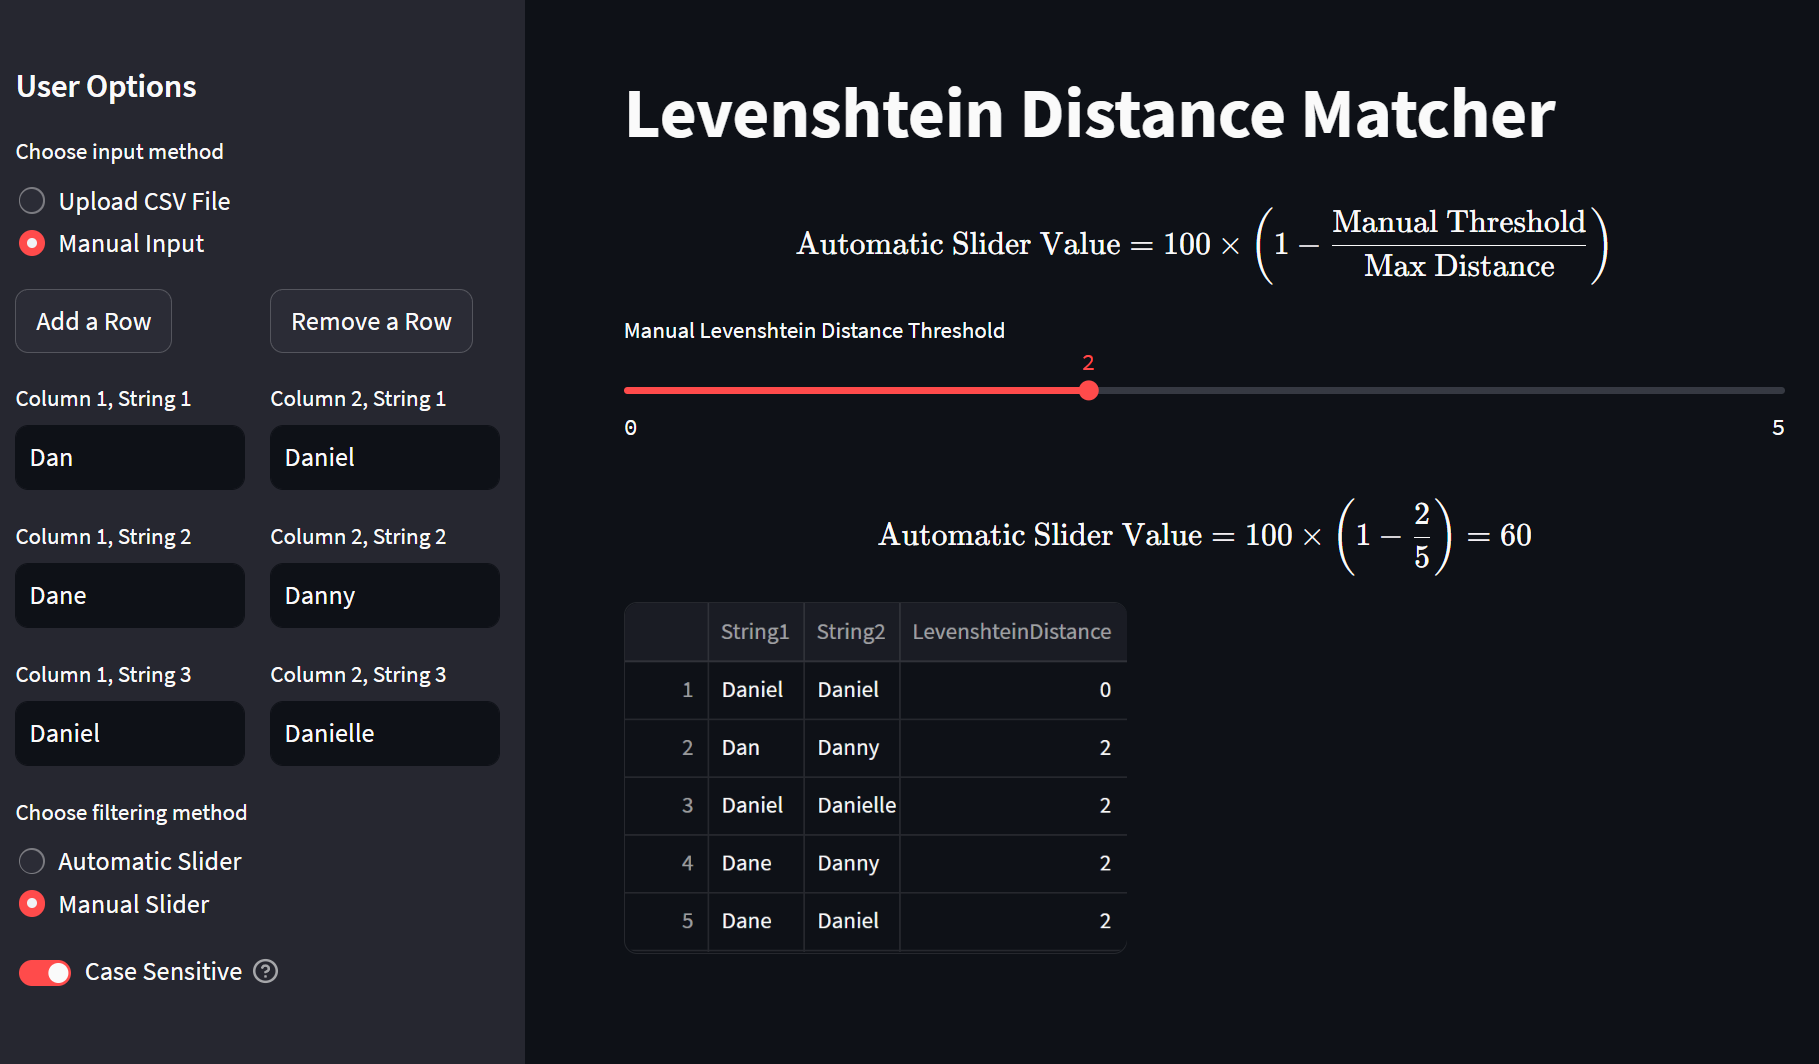
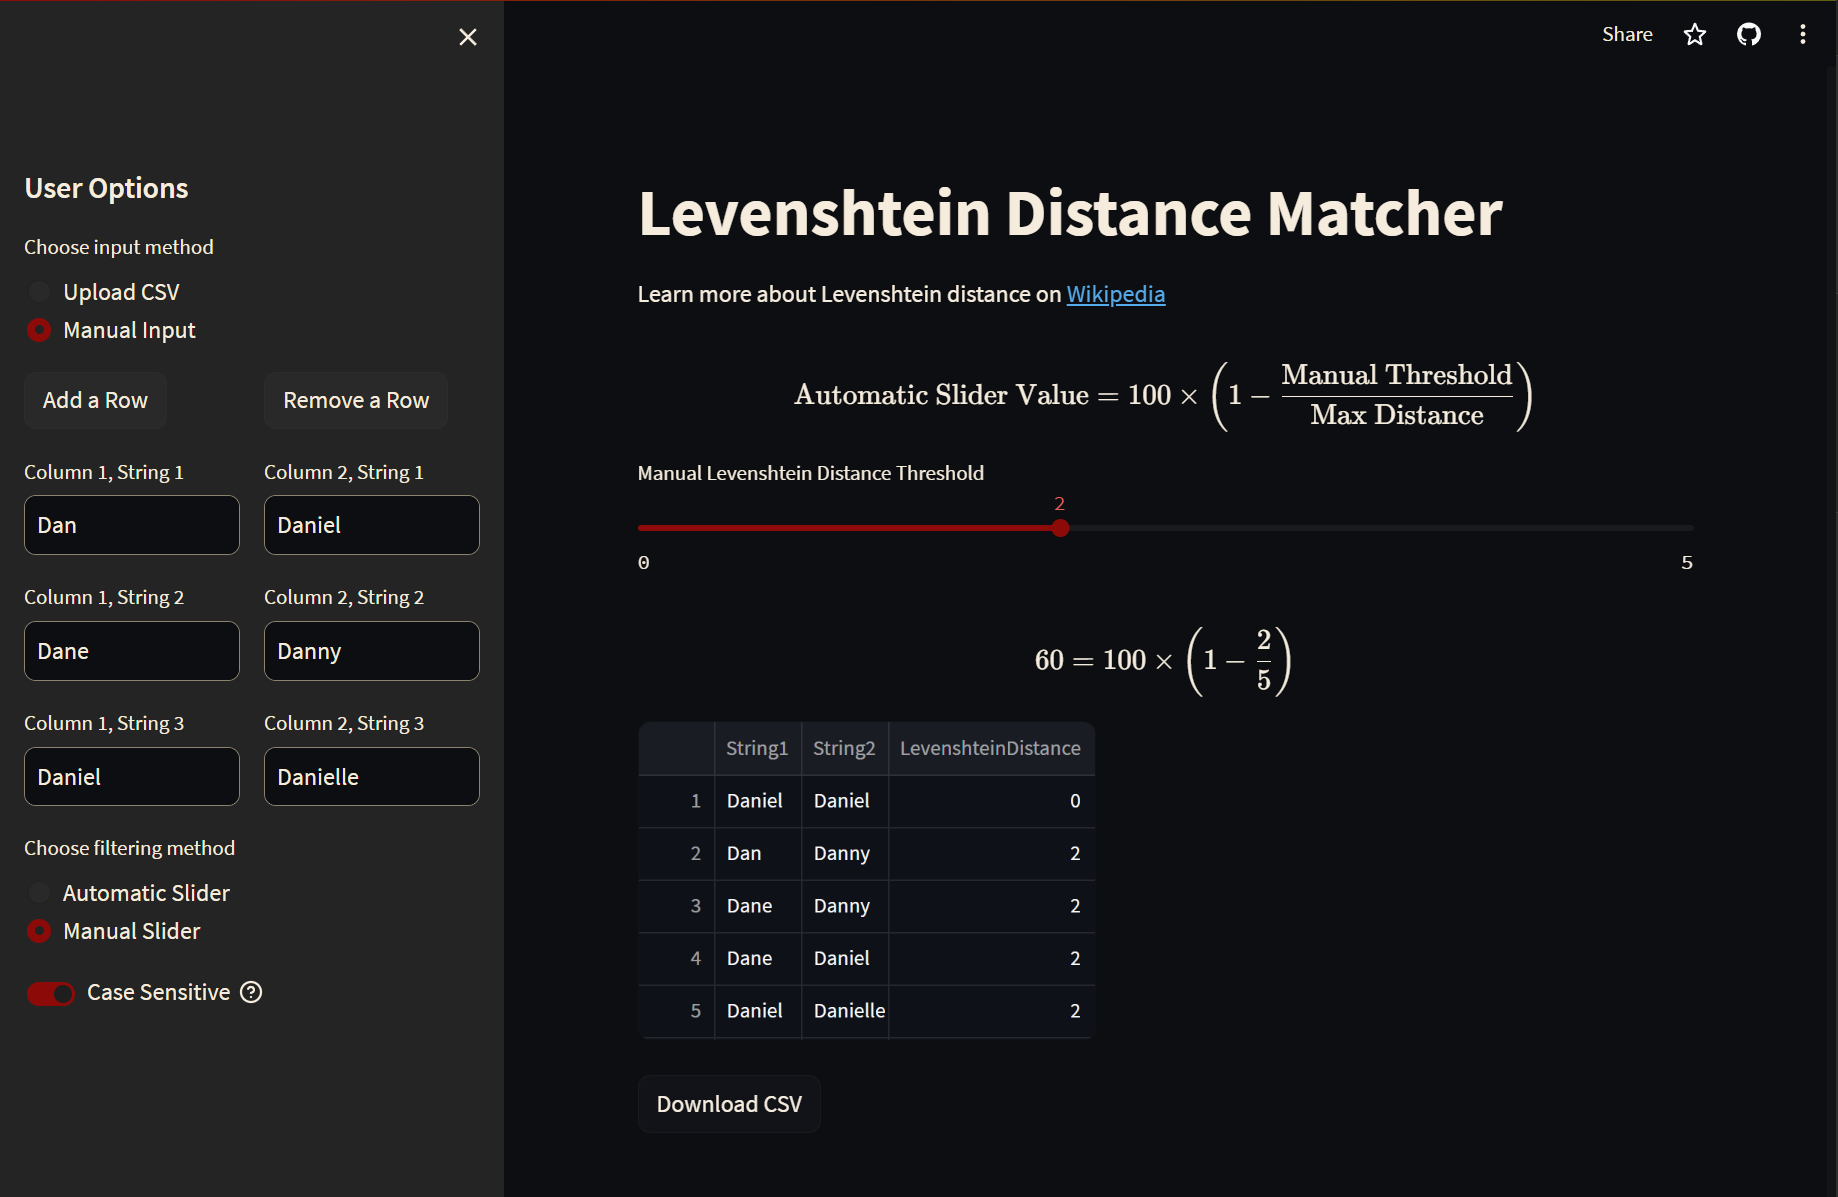
update readme and screenshot

diff --git a/README.md b/README.md
@@ -15,7 +15,8 @@ This project is a text-matching tool that uses the Levenshtein distance algorith
 
 ## What is Levenshtein Distance?
 
-[Levenshtein Distance](https://en.wikipedia.org/wiki/Levenshtein_distance)
+
+Learn more about [Levenshtein distance on Wikipedia](https://en.wikipedia.org/wiki/Levenshtein_distance)
 
 ## Installation
 
@@ -36,9 +37,9 @@ pip install -r requirements.txt
 
 ## Usage
 
-### Upload CSV File
+### Upload CSV
 
-1. Choose "Upload CSV File" from the sidebar.
+1. Choose "Upload CSV" from the sidebar.
 2. Upload your CSV file. The file should contain two columns of strings to be compared.
 
 ### Manual Input
@@ -53,6 +54,10 @@ Choose either the "Automatic Slider" or the "Manual Slider" to adjust the matchi
 ### Case Sensitivity
 
 Toggle the "Case Sensitive" option on for case-sensitive matching.
+
+### Download CSV
+
+Download the filtered results as a CSV file.
 
 ## Contributing
 
